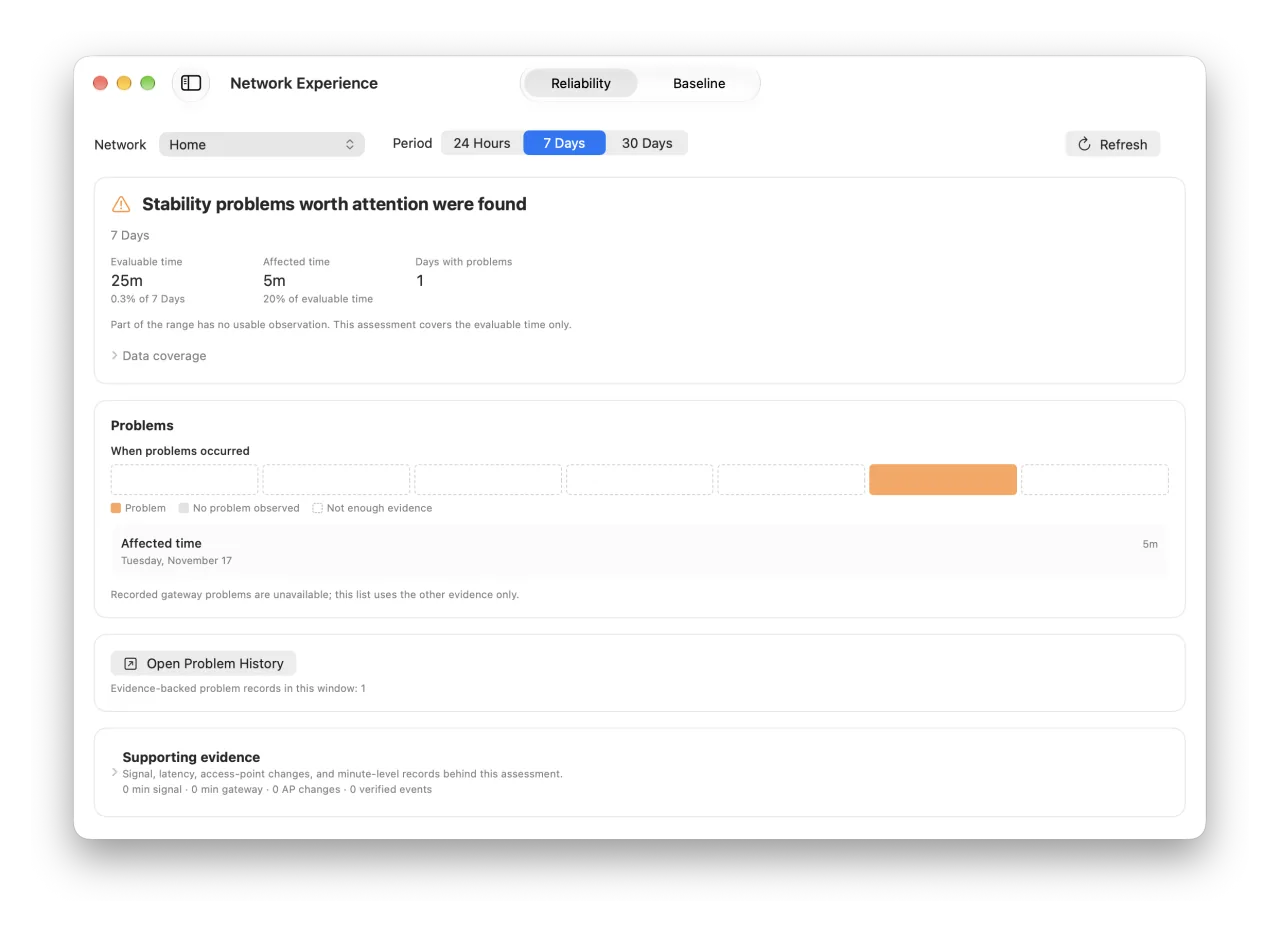
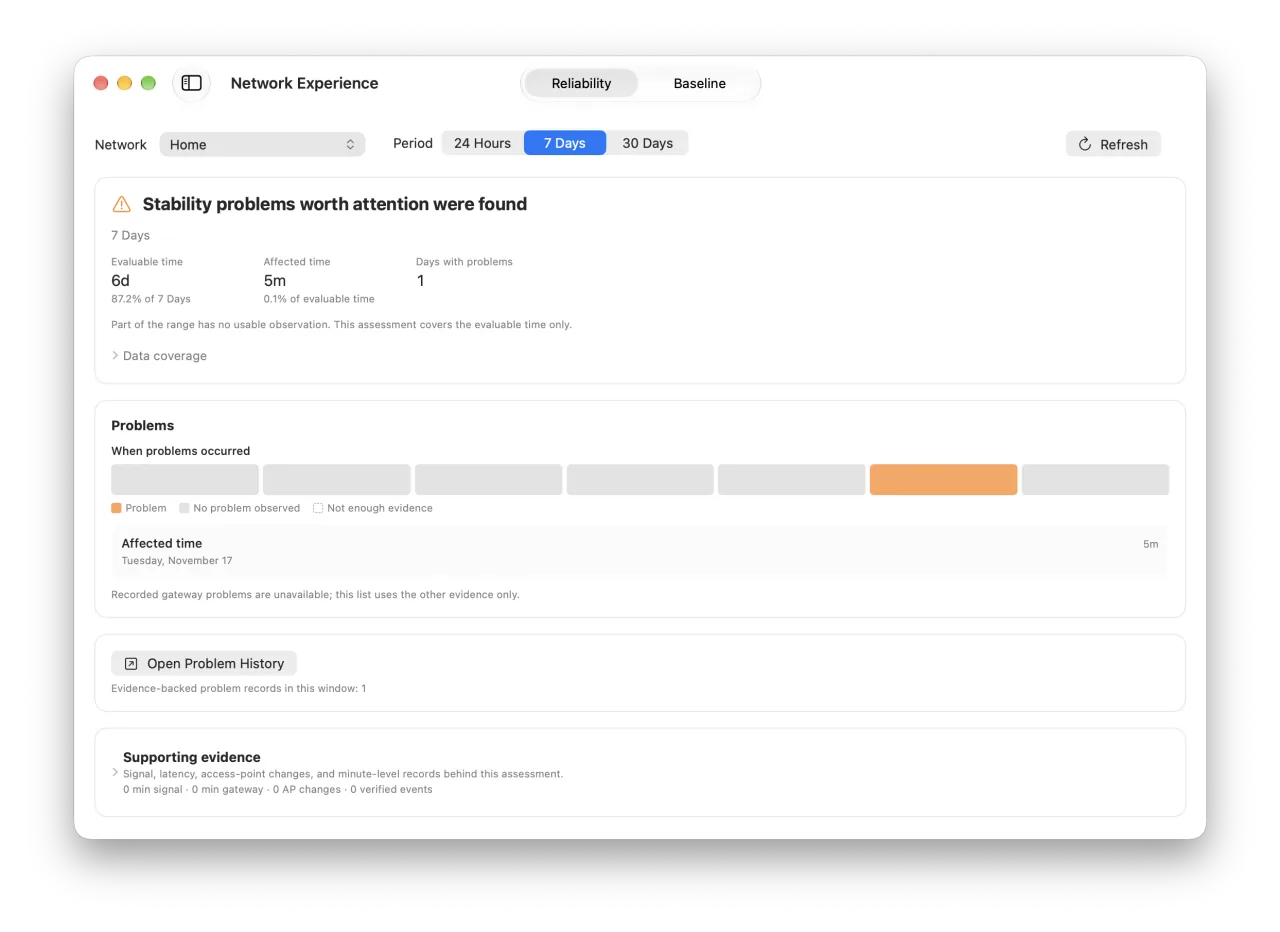
docs: improve README hero and update build instructions

diff --git a/README.de.md b/README.de.md
@@ -180,8 +180,6 @@ Weitere Beispiele findest du im [Leitfaden zu KI-Workflows](https://wifi-lens.sh
 ```sh
 git clone https://github.com/ShiinaLabs/wifi-lens
 cd wifi-lens
-git submodule update --init ChartLens
-cd WiFiLens
 
 xcodebuild -project WiFiLens.xcodeproj -scheme "WiFi Lens" \
   -configuration Debug -destination 'platform=macOS' build

diff --git a/README.es-ES.md b/README.es-ES.md
@@ -180,8 +180,6 @@ Encontrarás más ejemplos en la [guía de flujos de trabajo de IA](https://wifi
 ```sh
 git clone https://github.com/ShiinaLabs/wifi-lens
 cd wifi-lens
-git submodule update --init ChartLens
-cd WiFiLens
 
 xcodebuild -project WiFiLens.xcodeproj -scheme "WiFi Lens" \
   -configuration Debug -destination 'platform=macOS' build

diff --git a/README.fr.md b/README.fr.md
@@ -180,8 +180,6 @@ D’autres exemples sont disponibles dans le [guide des workflows IA](https://wi
 ```sh
 git clone https://github.com/ShiinaLabs/wifi-lens
 cd wifi-lens
-git submodule update --init ChartLens
-cd WiFiLens
 
 xcodebuild -project WiFiLens.xcodeproj -scheme "WiFi Lens" \
   -configuration Debug -destination 'platform=macOS' build

diff --git a/README.md b/README.md
@@ -180,8 +180,6 @@ More examples are available in the [AI workflows guide](https://wifi-lens.shiina
 ```sh
 git clone https://github.com/ShiinaLabs/wifi-lens
 cd wifi-lens
-git submodule update --init ChartLens
-cd WiFiLens
 
 xcodebuild -project WiFiLens.xcodeproj -scheme "WiFi Lens" \
   -configuration Debug -destination 'platform=macOS' build

diff --git a/README.ja.md b/README.ja.md
@@ -180,8 +180,6 @@ url = "http://127.0.0.1:19840/"
 ```sh
 git clone https://github.com/ShiinaLabs/wifi-lens
 cd wifi-lens
-git submodule update --init ChartLens
-cd WiFiLens
 
 xcodebuild -project WiFiLens.xcodeproj -scheme "WiFi Lens" \
   -configuration Debug -destination 'platform=macOS' build

diff --git a/README.zh-Hans.md b/README.zh-Hans.md
@@ -221,8 +221,6 @@ url = "http://127.0.0.1:19840/"
 ```sh
 git clone https://github.com/ShiinaLabs/wifi-lens
 cd wifi-lens
-git submodule update --init ChartLens
-cd WiFiLens
 
 xcodebuild -project WiFiLens.xcodeproj -scheme "WiFi Lens" \
   -configuration Debug -destination 'platform=macOS' build

diff --git a/README.zh-Hant.md b/README.zh-Hant.md
@@ -180,8 +180,6 @@ url = "http://127.0.0.1:19840/"
 ```sh
 git clone https://github.com/ShiinaLabs/wifi-lens
 cd wifi-lens
-git submodule update --init ChartLens
-cd WiFiLens
 
 xcodebuild -project WiFiLens.xcodeproj -scheme "WiFi Lens" \
   -configuration Debug -destination 'platform=macOS' build
